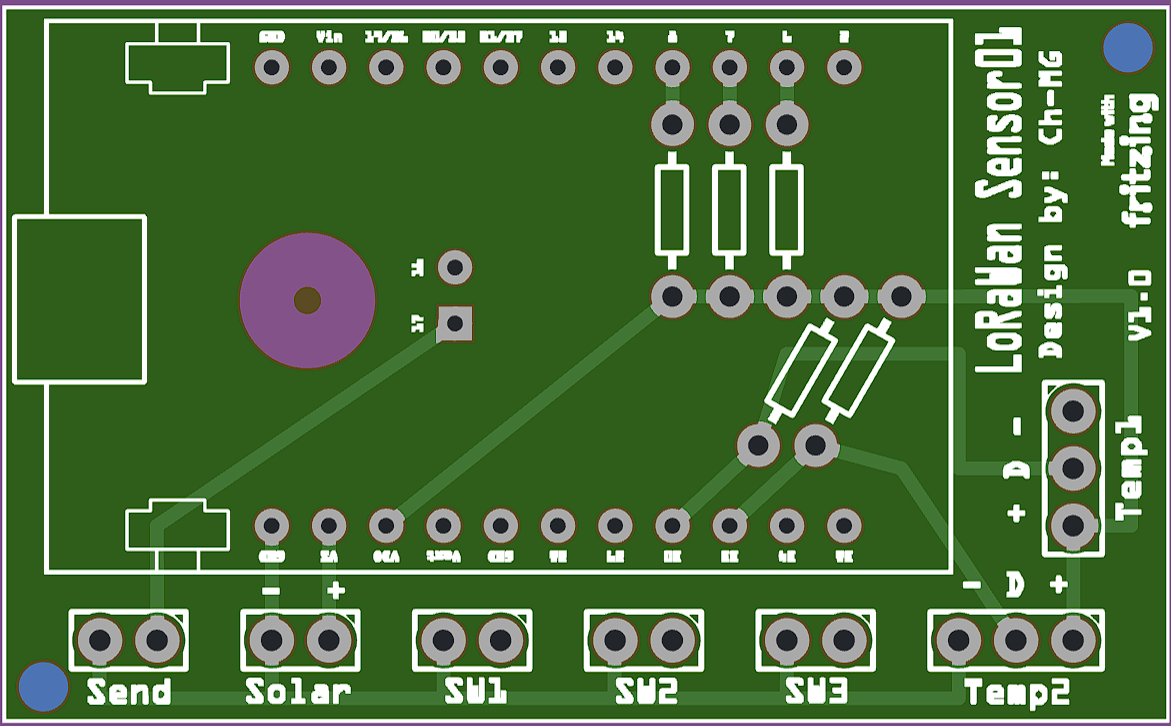
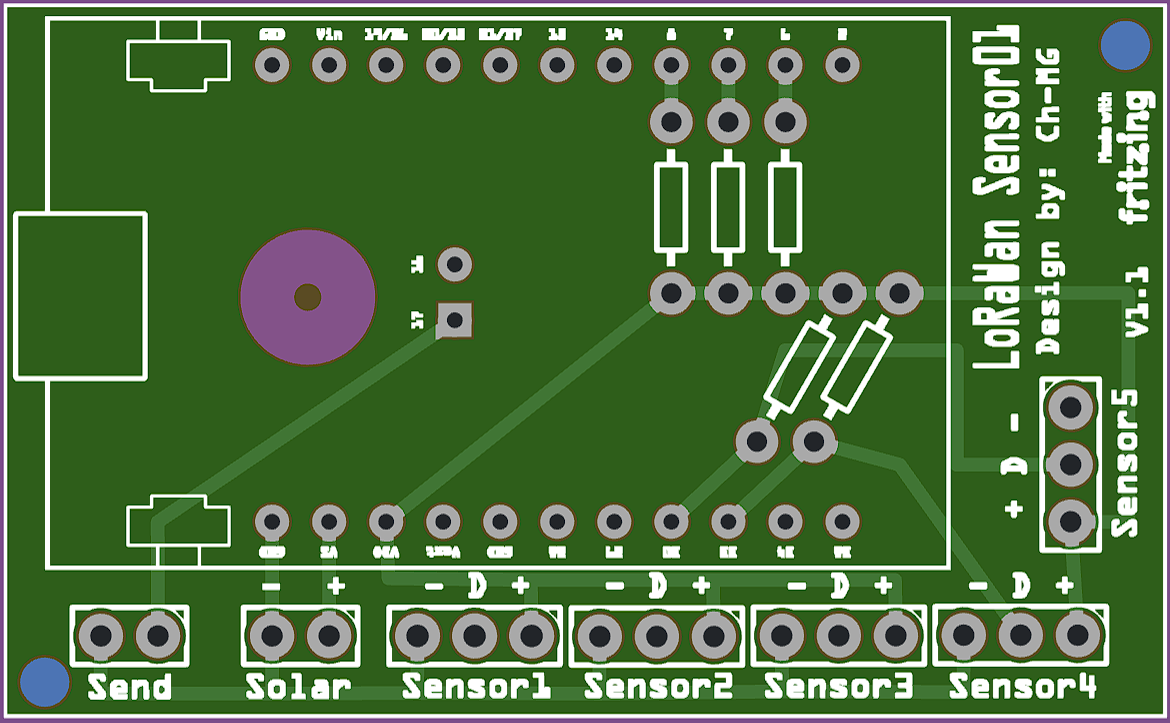
update PBC and README

diff --git a/README_EN.md b/README_EN.md
@@ -1,4 +1,4 @@
-# LoRaWan_Sensor01 (CubeCell AB01, DS18B20 + DHT22 + 3x Reed)
+# LoRaWan_Sensor01 (CubeCell AB01, DS18B20 + DHT22 + Reed)
 
 ## Hardware
 - Heltec CubeCell AB01
@@ -8,7 +8,7 @@
 
 ## PCB Layout
 - The PCB design is located in the `Fritzing` folder in `LoRaWan_Sensor01.fzz`.
-- Direct order (Aisler): https://aisler.net/p/VXRWBTJL
+- Direct order (Aisler): https://aisler.net/p/UXGEYAMX
 - Connector `Sensor[1-5]` = `DHT22, DS18B20 or Reed contact`
 - Connector `Send` = `Immediate send trigger`
 - Connector `Solar` = `Solar module for battery charging`

diff --git a/README.md b/README.md
@@ -1,4 +1,4 @@
-# LoRaWan_Sensor01 (CubeCell AB01, DS18B20 + DHT22 + 3x Reed)
+# LoRaWan_Sensor01 (CubeCell AB01, DS18B20 + DHT22 + Reed)
 
 ## Hardware
 - Heltec CubeCell AB01
@@ -8,7 +8,7 @@
 
 ## Platinenlayout
 - Das Platinen-Design liegt im Ordner `Fritzing` in der Datei `LoRaWan_Sensor01.fzz`.
-- Direkt bestellen (Aisler): https://aisler.net/p/VXRWBTJL
+- Direkt bestellen (Aisler): https://aisler.net/p/UXGEYAMX
 - Anschluss `Sensor[1-5]` = `DHT22, DS18B20 oder Reed Kontakt`
 - Anschluss `Temp2` = `DS18B20`
 - Anschluss `Send` = `Sofort-Senden Trigger`
